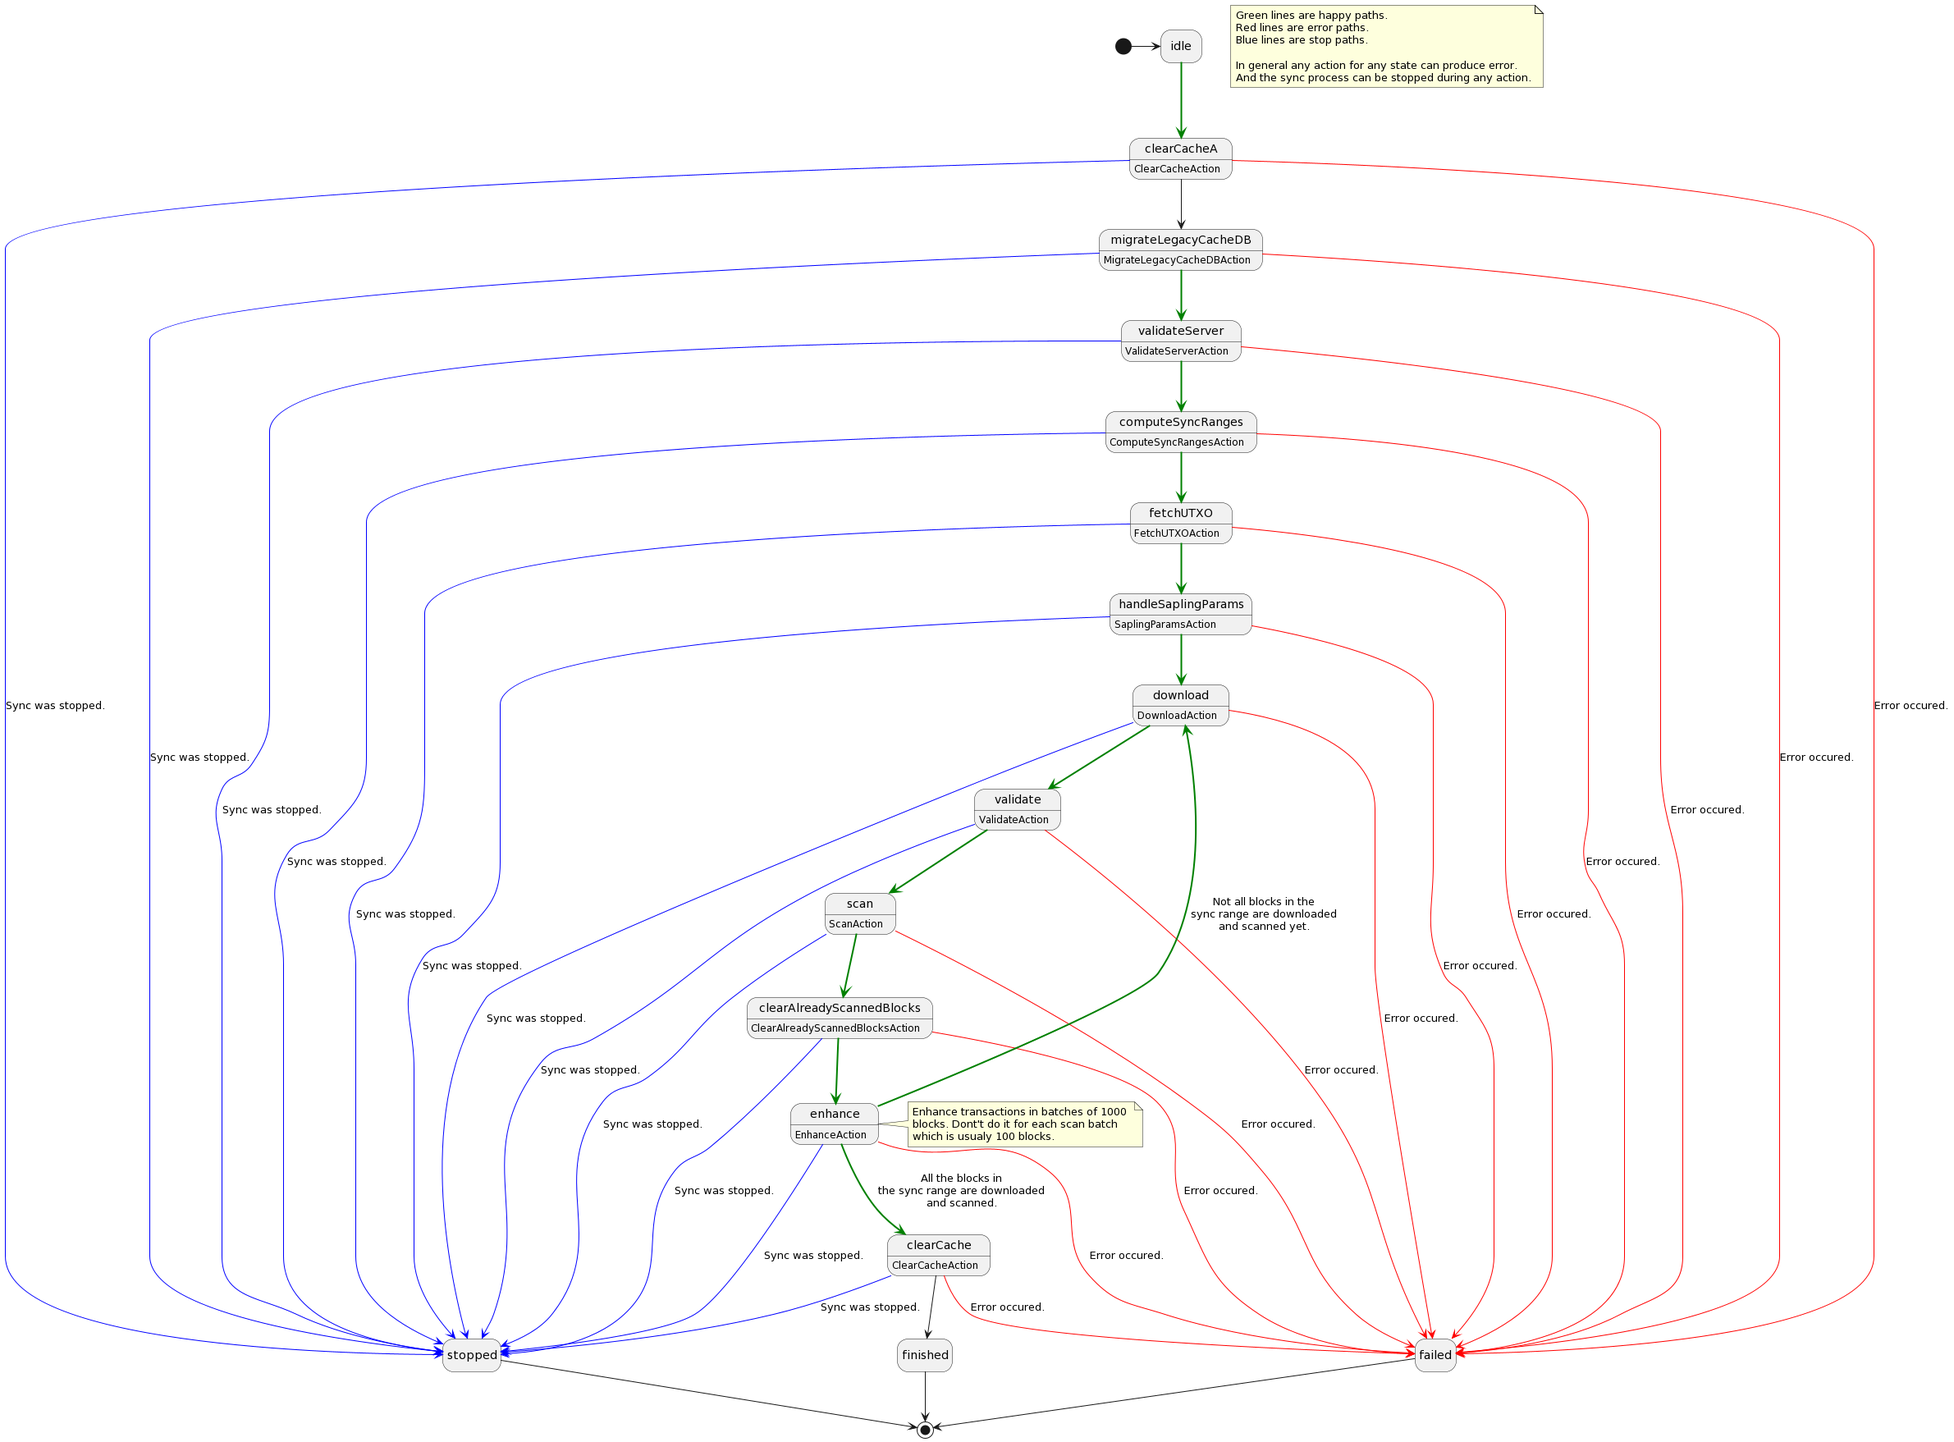
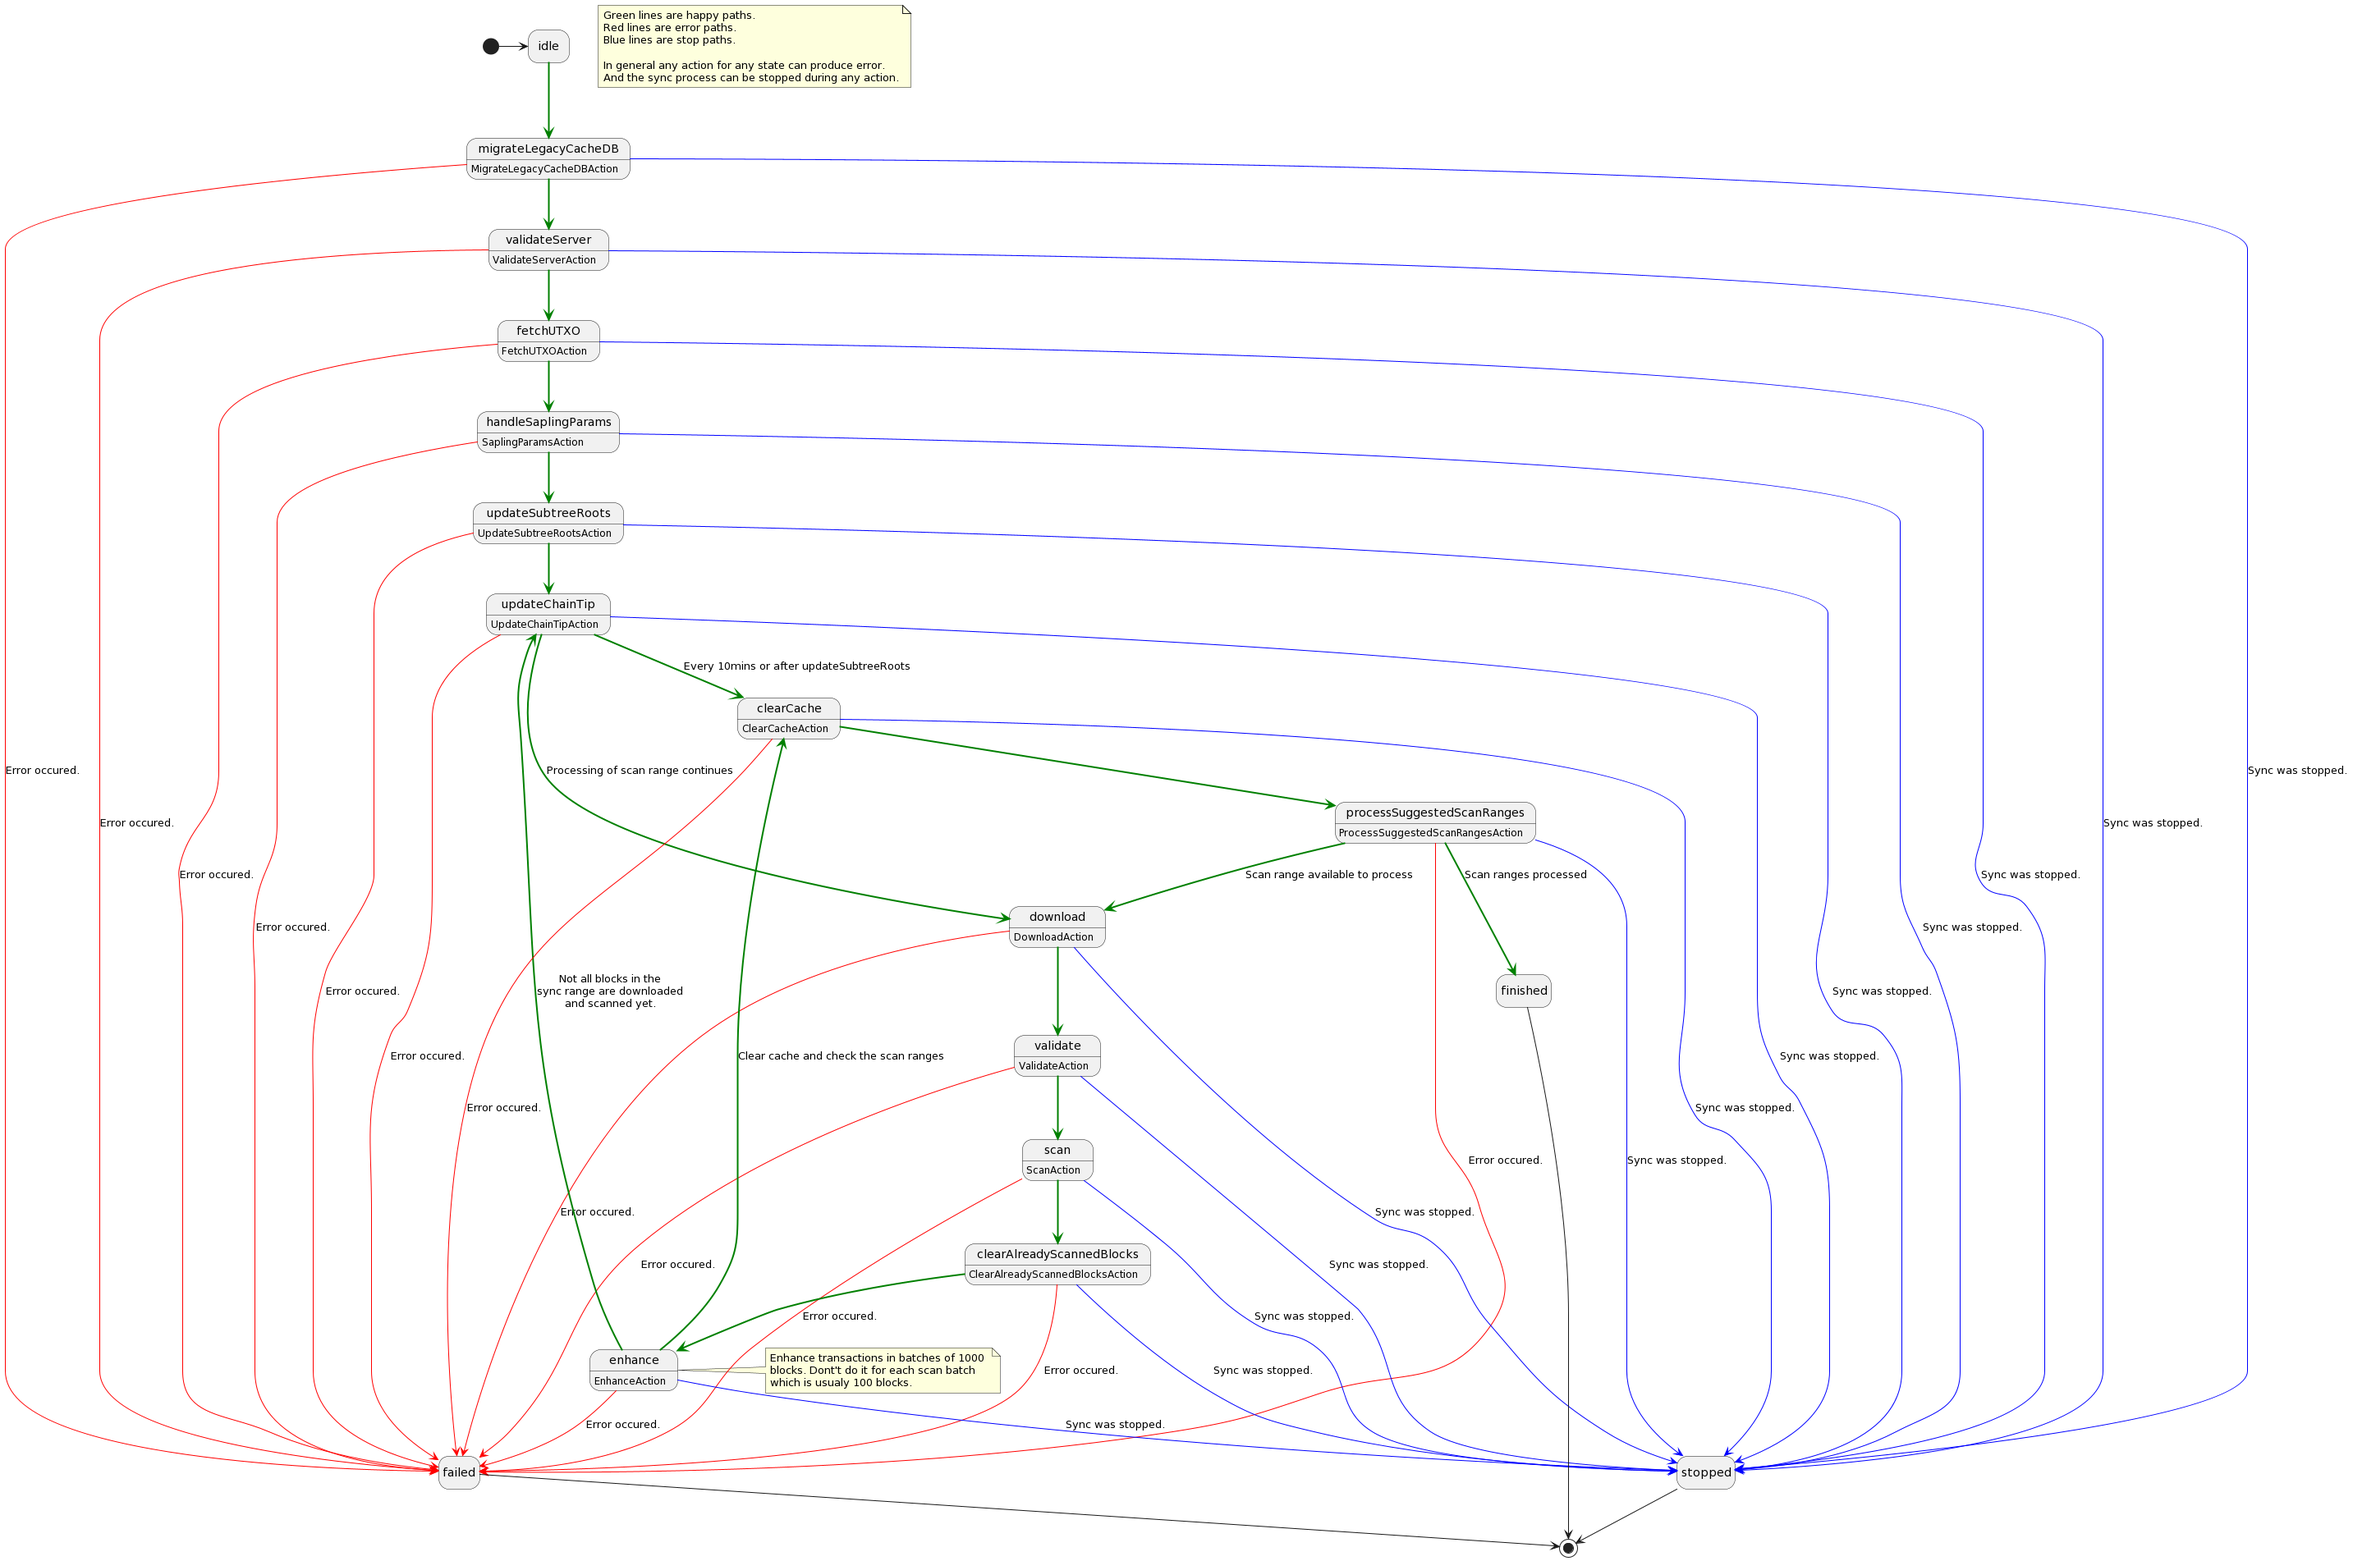
cbp_state_machine updated
- cbp_state_machine.png as well as .puml files updated to reflect the State Machine changes after SBS
- one small cleanup of clearCache, no longer needed to be called twice, only after enhance (missed removal of linear sync)

diff --git a/Tests/OfflineTests/CompactBlockProcessorActions/ClearCacheActionTests.swift b/Tests/OfflineTests/CompactBlockProcessorActions/ClearCacheActionTests.swift
@@ -23,7 +23,7 @@ final class ClearCacheActionTests: ZcashTestCase {
             
             XCTAssertTrue(compactBlockRepositoryMock.clearCalled, "storage.clear() is expected to be called.")
             
-            let acResult = nextContext.checkStateIs(.migrateLegacyCacheDB)
+            let acResult = nextContext.checkStateIs(.processSuggestedScanRanges)
             XCTAssertTrue(acResult == .true, "Check of state failed with '\(acResult)'")
         } catch {
             XCTFail("testClearCacheAction_MigrationLegacyCacheDB is not expected to fail. \(error)")

diff --git a/Sources/ZcashLightClientKit/Block/Actions/ClearCacheAction.swift b/Sources/ZcashLightClientKit/Block/Actions/ClearCacheAction.swift
@@ -21,11 +21,7 @@ extension ClearCacheAction: Action {
     func run(with context: ActionContext, didUpdate: @escaping (CompactBlockProcessor.Event) async -> Void) async throws -> ActionContext {
         try await storage.clear()
         
-        if await context.prevState == .idle {
-            await context.update(state: .migrateLegacyCacheDB)
-        } else {
-            await context.update(state: .processSuggestedScanRanges)
-        }
+        await context.update(state: .processSuggestedScanRanges)
         
         return context
     }

diff --git a/Sources/ZcashLightClientKit/Block/CompactBlockProcessor.swift b/Sources/ZcashLightClientKit/Block/CompactBlockProcessor.swift
@@ -484,7 +484,7 @@ extension CompactBlockProcessor {
                 // Side effect of calling stop is to delete last used download stream. To be sure that it doesn't keep any data in memory.
                 await stopAllActions()
                 // Update state to the first state in state machine that can be handled by action.
-                await context.update(state: .clearCache)
+                await context.update(state: .migrateLegacyCacheDB)
                 await syncStarted()
 
                 if backoffTimer == nil {
